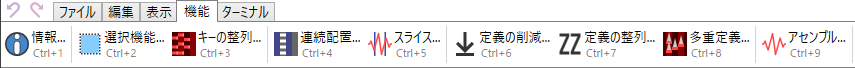
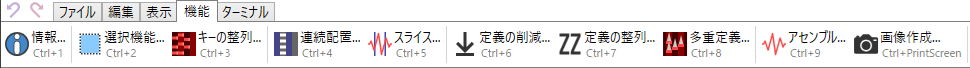
画像作成の説明追加

Changed region(s): [[0.0, 0.4412, 1.0, 0.8529], [0.0, 0.0, 0.3345, 0.3235]]

diff --git a/docs/bms_render.html b/docs/bms_render.html
@@ -1,0 +1,46 @@
+<!DOCTYPE html>
+<html>
+    <head>
+        <meta content="text/html" charset="UTF-8" http-equiv="content-type">
+        <title>BmsMaker3</title>
+        <link rel="shortcut icon" href="favicon.ico">
+        <link rel="stylesheet" type="text/css" href="style.css">
+    </head>
+    <body>
+        <div class="content">
+            <div class="stack">
+                <h1>画像作成</h1>
+                <p>
+                    編集中の譜面を画像としてコピー/保存する機能です。
+                </p>
+            </div>
+            <div class="stack">
+                <h2>説明</h2>
+                要素をクリックすると説明が表示されます。
+                <div class="image-map" src="img/bms_render.png" maps="
+                      1, 33,264, 30, bms/render_range.html;
+                    265, 33,136, 30, bms/render_padding.html;
+                    401, 33,159, 30, bms/render_noteHeight.html;
+                    560, 33,159, 30, bms/render_heightLimit.html;
+                    723, 28, 56, 40, bms/render_render.html;
+                    787, 28, 61, 40, bms/render_copy.html;
+                    856, 28,139, 40, bms/render_save.html;
+                      1, 72,999,293, bms/render_preview.html, center;
+                     11, 96, 75, 27, bms/render_size.html;">
+                </div>
+                <ul>
+                    <li>
+                        <span class="script">ESC</span>キーを押すとウィンドウを閉じます。
+                    </li>
+                    <li>
+                        このウィンドウで指定できない視覚要素(グリッドやスタイルなど)は、全て<a href="bms.html#tab">譜面表示エリアの設定</a>に従います。
+                    </li>
+                    <li>
+                        指揮者レーンは、描画範囲内に該当レーンのオブジェが存在する場合にのみ描画されます。
+                    </li>
+                </ul>
+            </div>
+        </div>
+        <script type="text/javascript" src="script.js"></script>
+    </body>
+</html>

diff --git a/docs/bms_viewer.html b/docs/bms_viewer.html
@@ -15,7 +15,7 @@
                 </p>
                 <ul>
                     <li>
-                        初回起動時点で、「<a href="https://mistyblue.info/mbmplay.html" target="_blank">mBMplay</a>」「<a href="http://ucn.tokonats.net/software/ubmplay/" target="_blank">uBMplay</a>」「<a href="https://bmsoffighters.net/lr2/" target="_blank">LR2</a>」「<a href="https://mocha-repository.info/download.php" target="_blank">beatoraja</a>」に対応したプリセットが用意されています。
+                        初回起動時点で、「<a href="https://mistyblue.info/mbmplay.html" target="_blank">mBMplay</a>」「<a href="http://ucn.tokonats.net/software/ubmplay/" target="_blank">uBMplay</a>」「<a href="https://bmsoffighters.net/lr2/" target="_blank">LR2</a>」「<a href="https://mocha-repository.info/download.php" target="_blank">beatoraja</a>」に対応したプリセットが用意されていますが、<b>実行ファイルのパスは未指定</b>なため、最初のプレビュー実行時に指定する必要があります。
                     </li>
                 </ul>
             </div>

diff --git a/docs/history.html b/docs/history.html
@@ -17,7 +17,7 @@
                                 機能追加
                                 <ul>
                                     <li>
-                                        <a href="bms_render.html">BMSモード/画像作成</a>を追加しました。<b style="color: #f44;">注:リンク先未作成</b>
+                                        <a href="bms_render.html">BMSモード/画像作成</a>を追加しました。
                                         <ul>
                                             <li>
                                                 編集中の譜面をSNSなどで共有する際に、画像を貼り付けることで直接見せることができます。

diff --git a/docs/bms/render_heightLimit.html b/docs/bms/render_heightLimit.html
@@ -1,0 +1,16 @@
+<h3>高さ制限</h3>
+<ul>
+    <li>
+        画像の高さ上限の<b>目安</b>を指定します。
+    </li>
+    <li>
+        画像は若い番号の小節から<b>小節単位</b>で積み上げられ、<br>
+        <b>小節頭の位置が高さ制限を超える</b>場合に次の列に移ります。
+    </li>
+    <li>
+        小節の<b>末尾は高さ制限の範囲外</b>です。
+    </li>
+    <li>
+        結果として、実際に作成される画像の高さはこの指定値よりも多少大きくなります。
+    </li>
+</ul>

diff --git a/docs/bms/render_preview.html b/docs/bms/render_preview.html
@@ -1,0 +1,15 @@
+<h3>プレビュー</h3>
+<ul>
+    <li>
+        作成される予定の画像を確認する領域です。
+    </li>
+    <li>
+        <span class="script">Ctrl+ホイール</span>で拡大率を変更できます。
+    </li>
+    <li>
+        <b>右ドラッグ</b>によって縦横にスクロールします。
+    </li>
+    <li>
+        ホイールボタンを押したままマウスを動かすと、その方向へ高速でスクロールします。
+    </li>
+</ul>

diff --git a/docs/bms/render_range.html b/docs/bms/render_range.html
@@ -1,0 +1,14 @@
+<h3>小節範囲</h3>
+<ul>
+    <li>
+        処理の対象とする小節の範囲を指定します。
+        <ul>
+            <li>
+                <b>終端を含みます</b>(終端の小節の末尾までが描画範囲です)。
+            </li>
+        </ul>
+    </li>
+    <li>
+        スライダーのツマミをドラッグするか、テキストボックスへの直接入力で指定します。
+    </li>
+</ul>

diff --git a/docs/bms.html b/docs/bms.html
@@ -151,6 +151,7 @@
                         553, 22,105, 45, bms/func_defSort.html;
                         658, 22, 95, 45, bms/func_multiDef.html;
                         758, 22, 92, 45, bms/func_assemble.html;
+                        850, 22,115, 45, bms/func_render.html;
                     "></div>
                     <div id="tab_terminal" src="img/window_bms_tab_terminal.png"></div>
                 </div>

diff --git a/docs/bms/render_save.html b/docs/bms/render_save.html
@@ -1,0 +1,11 @@
+<h3><img src="img/icons/Save.png" class="icon"/>名前を付けて保存</h3>
+<span class="script">Ctrl+S</span>
+<ul>
+    <li>
+        譜面画像を作成し、そのデータを画像として保存します。
+    </li>
+    <li>
+        保存形式によっては透明度情報が失われます。<br>
+        この場合背景は黒で塗りつぶされます。
+    </li>
+</ul>

diff --git a/docs/common/menu.html b/docs/common/menu.html
@@ -106,6 +106,9 @@
                             <li>
                                 <a href="bms_assemble.html">アセンブル</a>
                             </li>
+                            <li>
+                                <a href="bms_render.html">画像作成</a>
+                            </li>
                         </ul>
                     </details>
                 </li>

diff --git a/docs/bms/render_render.html b/docs/bms/render_render.html
@@ -1,0 +1,7 @@
+<h3><img src="img/icons/Camera.png" class="icon"/>プレビューの更新</h3>
+<span class="script">F5</span>
+<ul>
+    <li>
+        与えられた設定に基づいた譜面画像のプレビューを下に表示します。
+    </li>
+</ul>

diff --git a/docs/bms/func_render.html b/docs/bms/func_render.html
@@ -1,0 +1,7 @@
+<h3><img src="img/icons/Camera.png" class="icon">画像作成</h3>
+<span class="script">Ctrl+PrintScreen</span>
+<ul>
+    <li>
+        <a href="bms_render.html">画像作成ウィンドウ</a>を開きます。
+    </li>
+</ul>

diff --git a/docs/bms/render_copy.html b/docs/bms/render_copy.html
@@ -1,0 +1,7 @@
+<h3><img src="img/icons/Copy.png" class="icon"/>コピー</h3>
+<span class="script">Ctrl+C</span>
+<ul>
+    <li>
+        譜面画像を作成し、そのデータをクリップボードに送ります。
+    </li>
+</ul>
